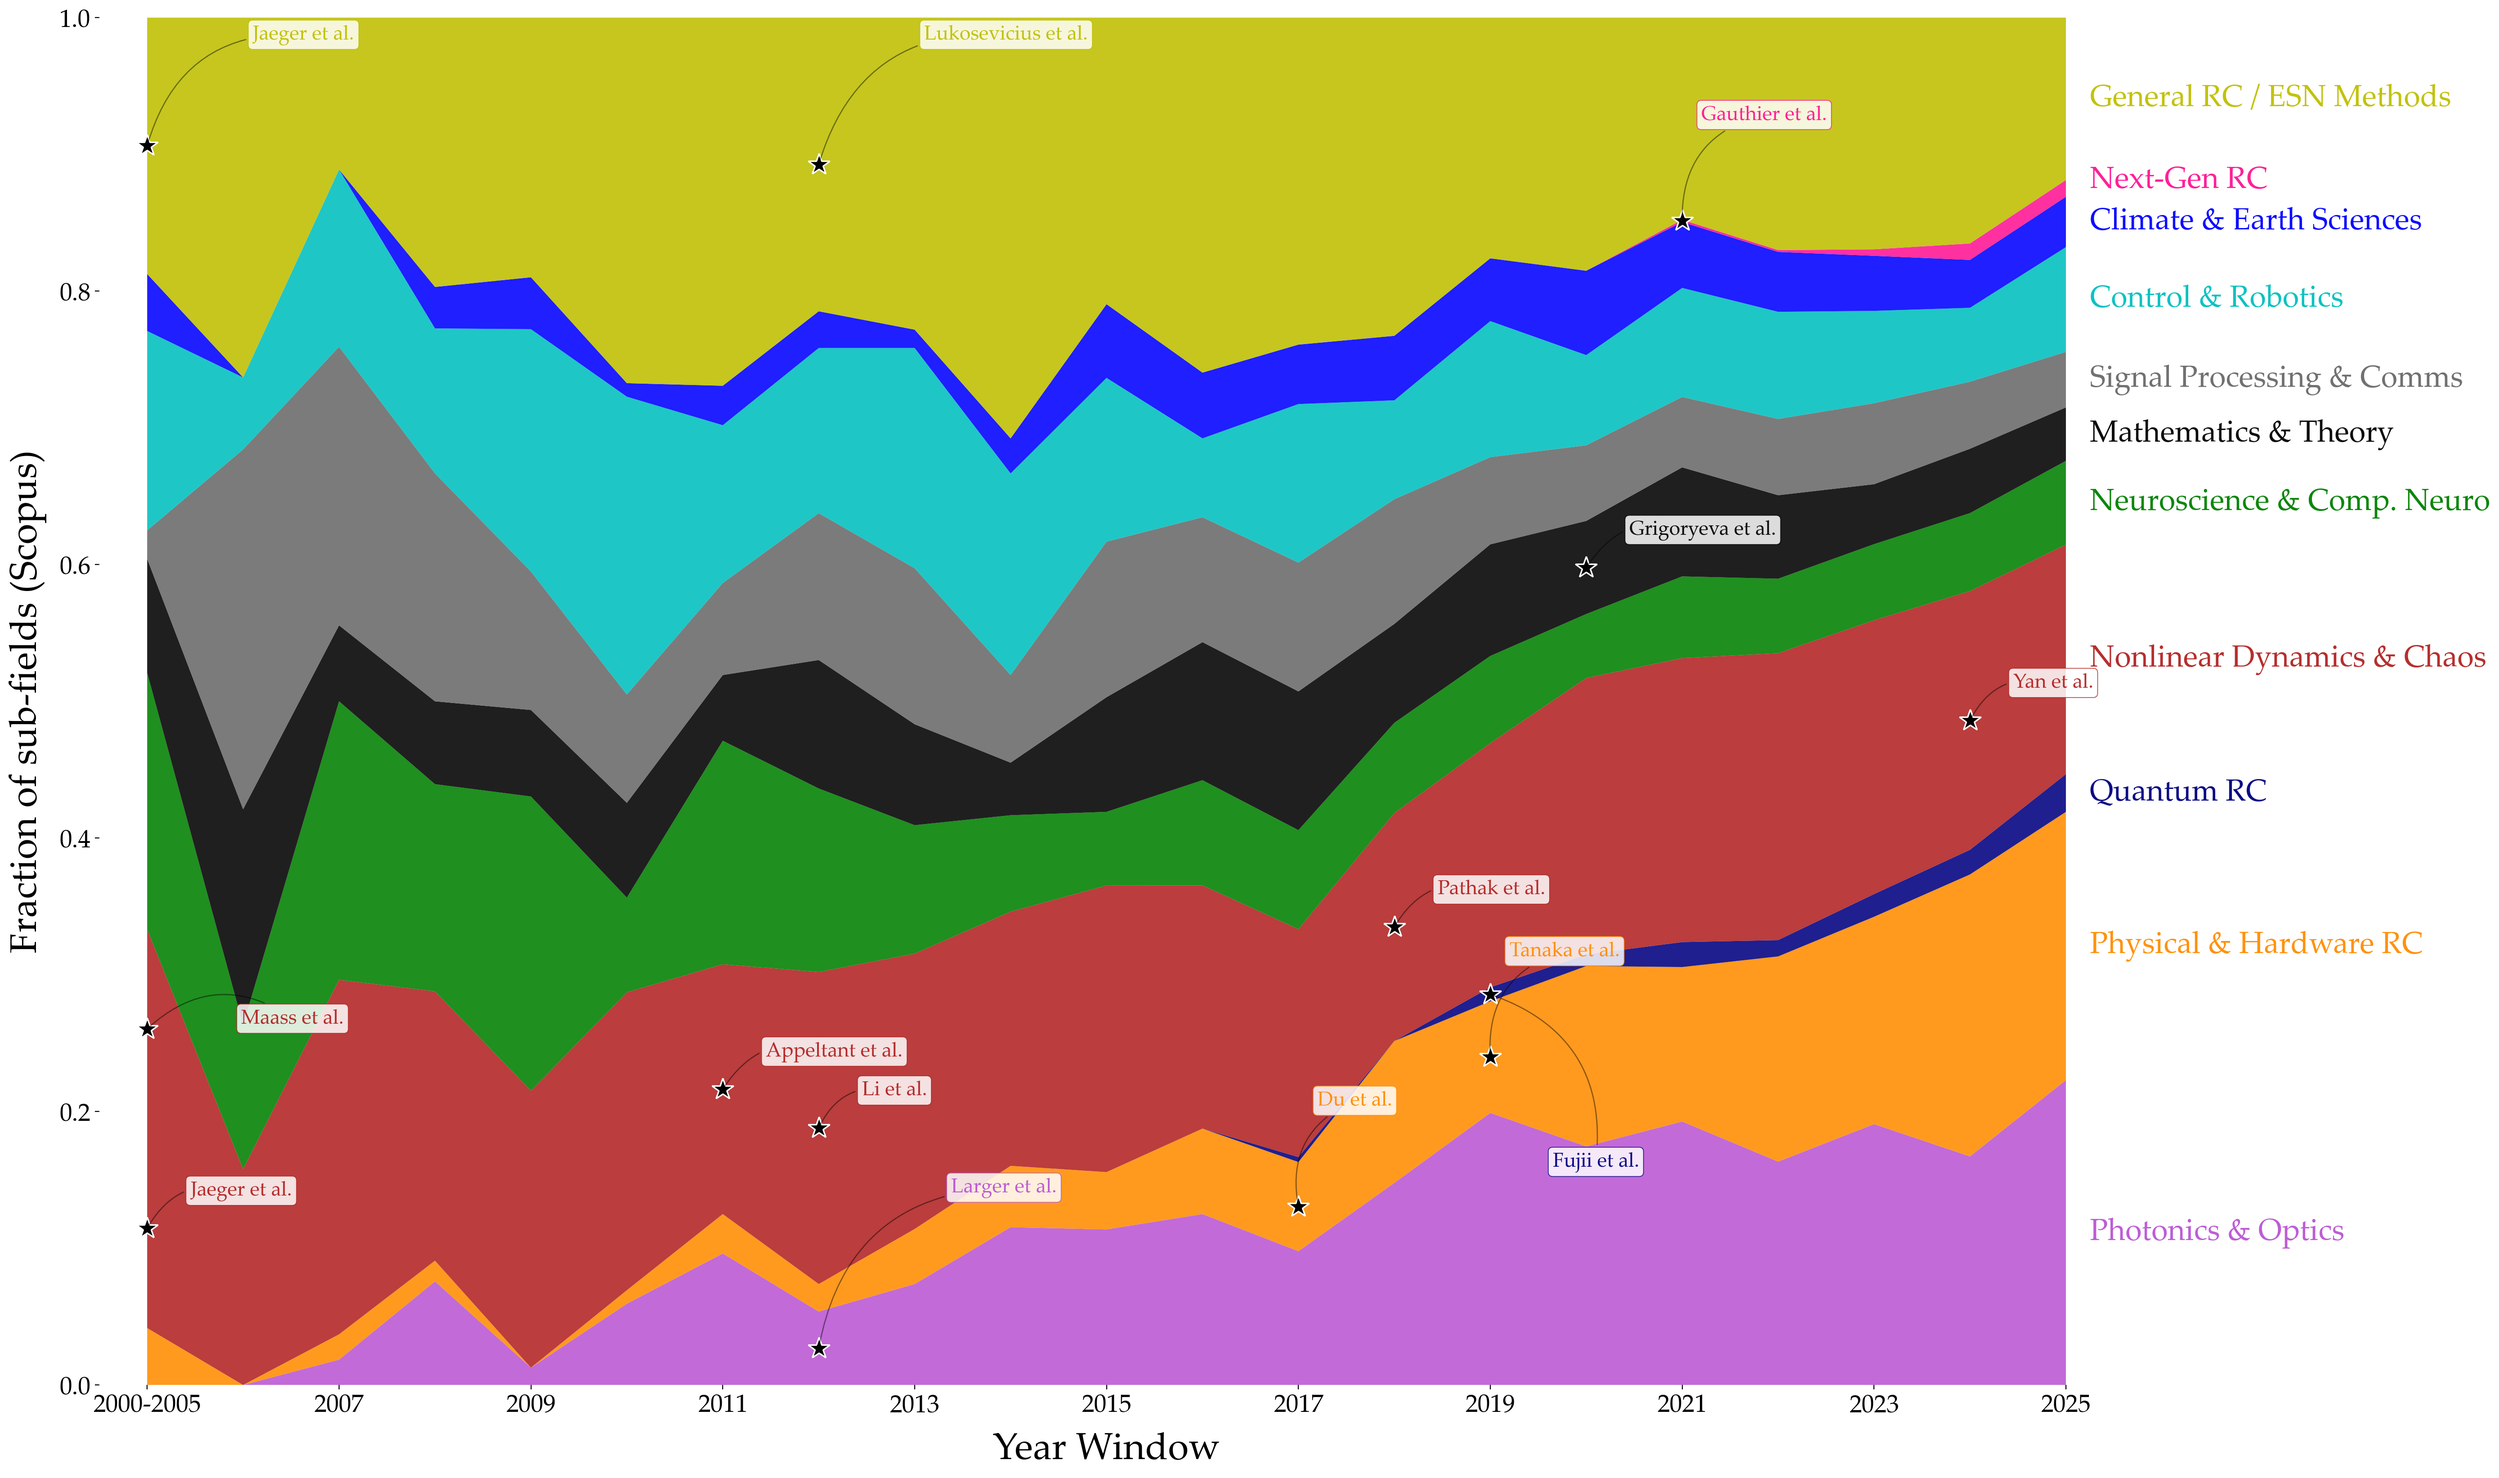
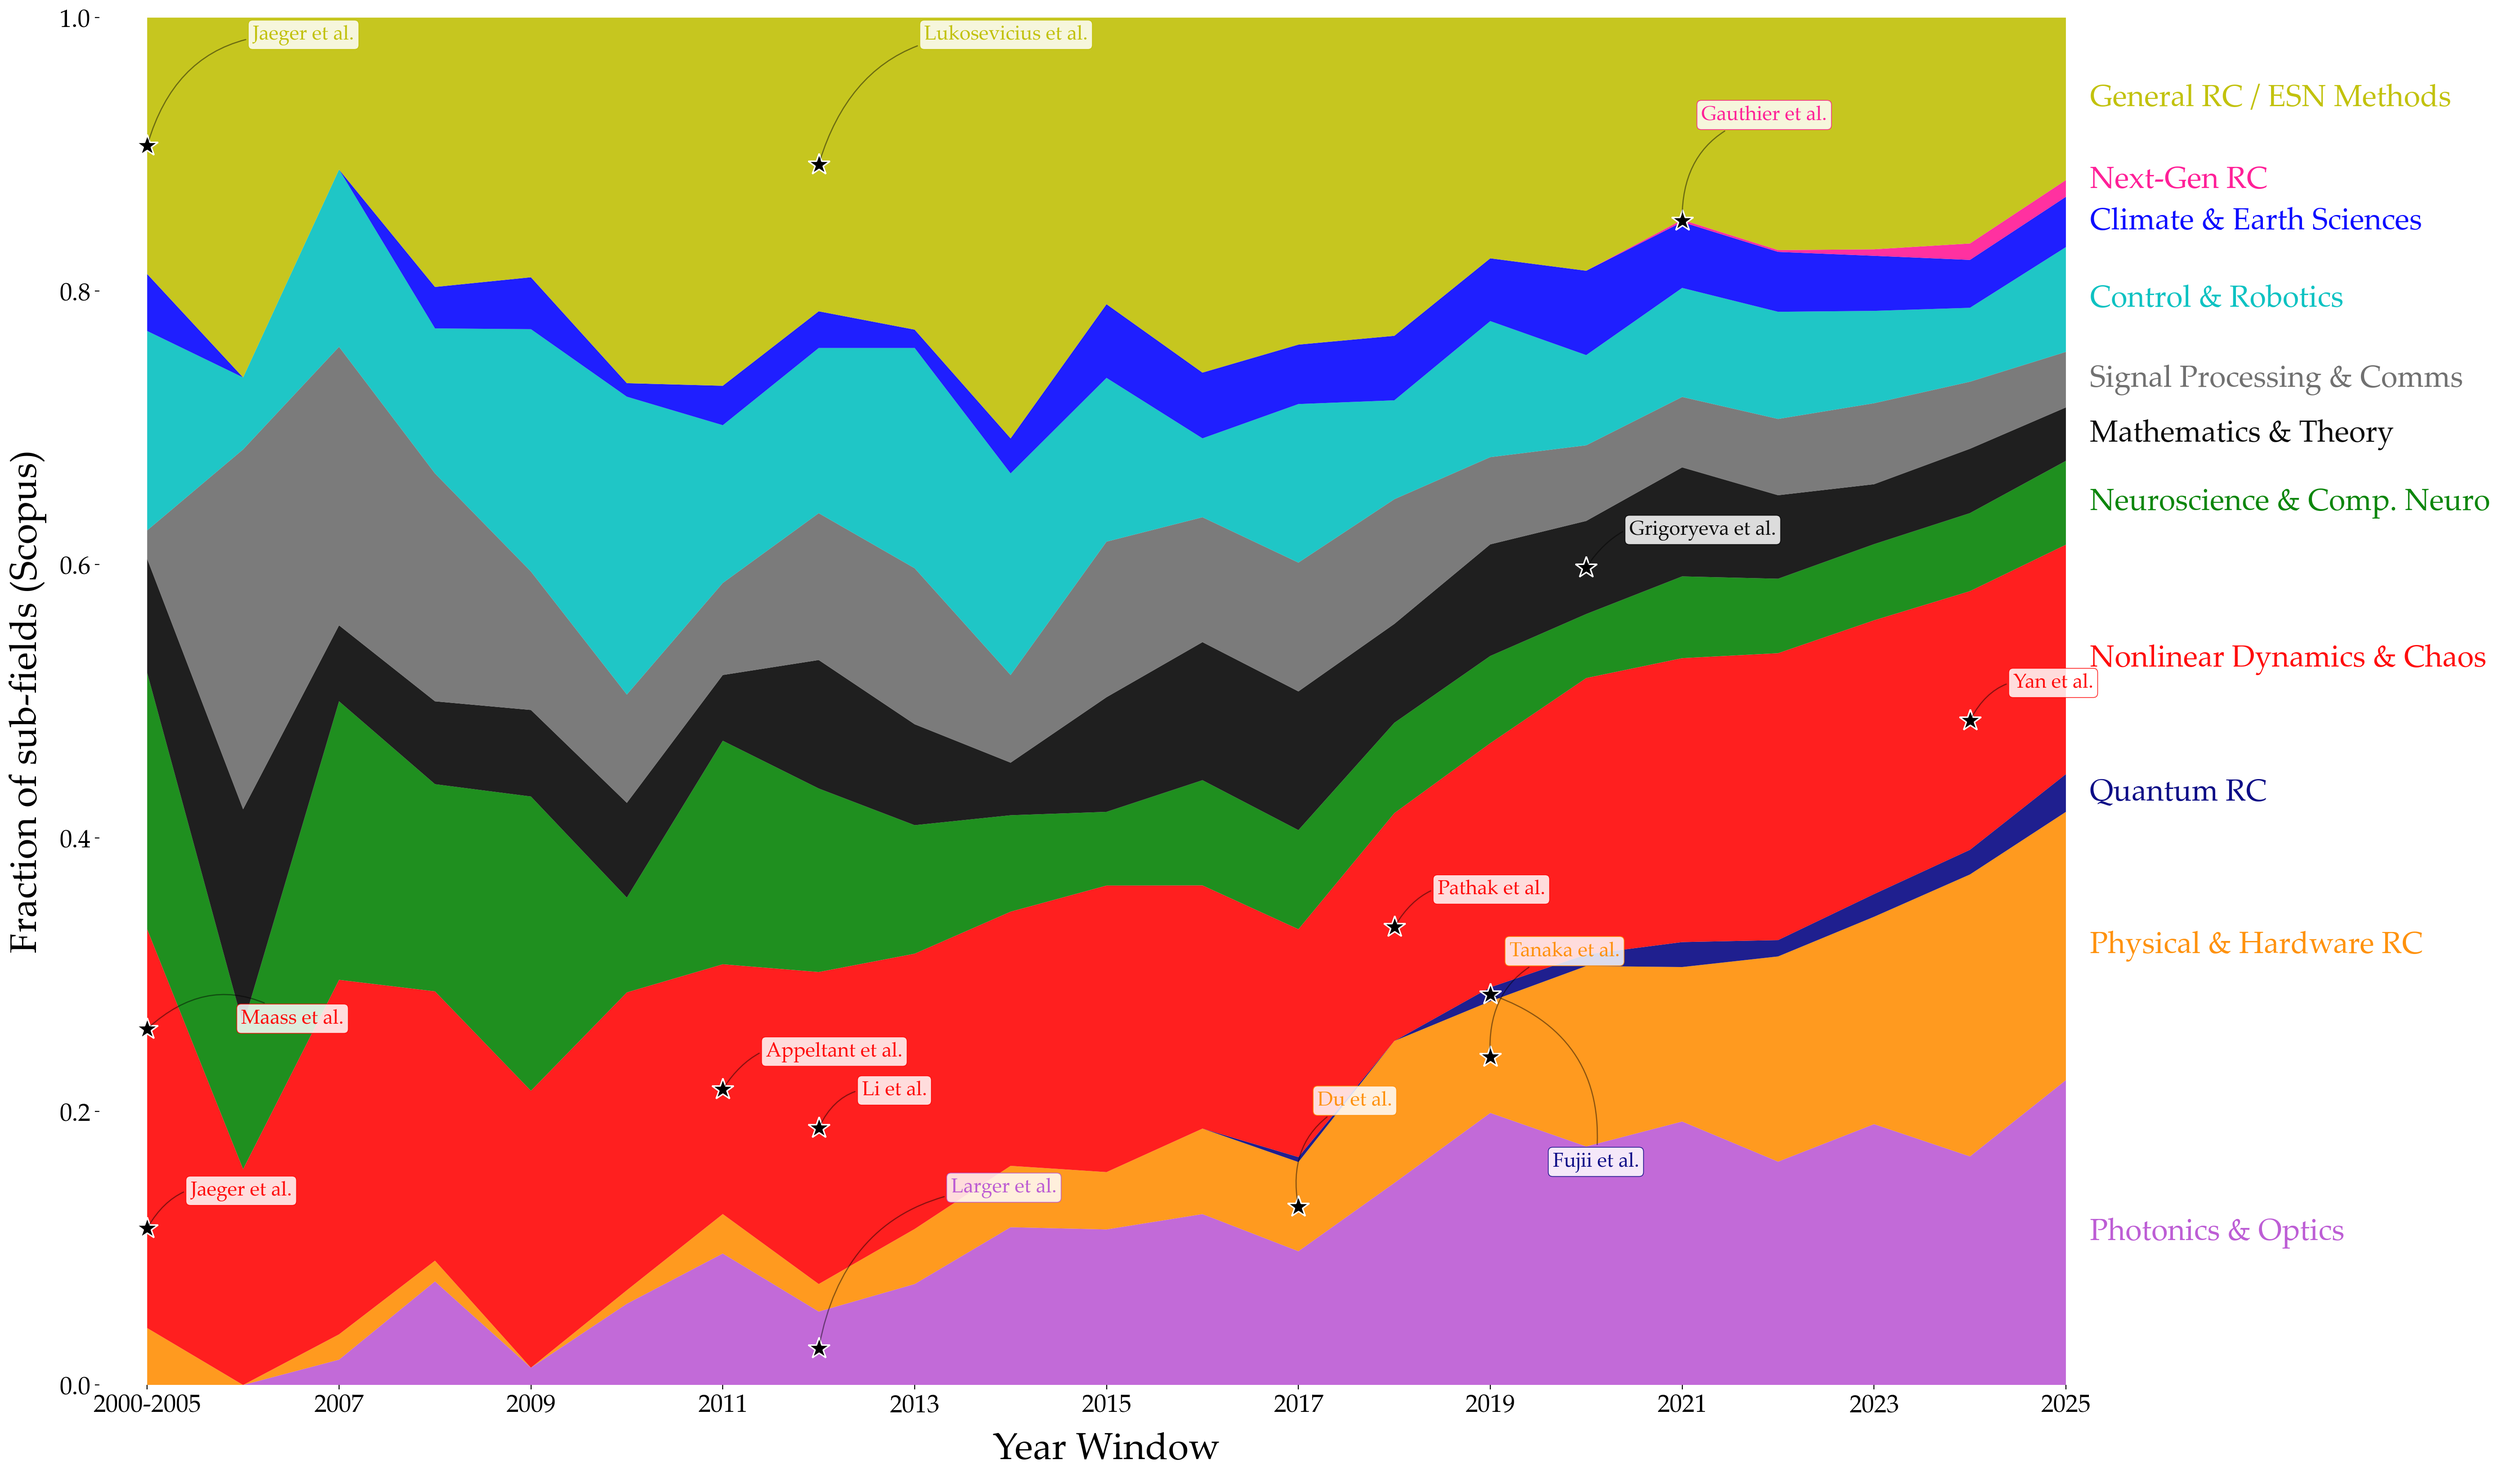
colors updated

Changed region(s): [[0.0311, 0.3725, 0.9962, 0.9312]]

diff --git a/scopus_data_analyze.py b/scopus_data_analyze.py
@@ -62,7 +62,7 @@ SUBFIELD_COLORS = {
     "Photonics & Optics":          "mediumorchid", #"red",
     "Physical & Hardware RC":      "darkorange", #"green",
     "Quantum RC":                  "navy", #"blue",
-    "Nonlinear Dynamics & Chaos":  "firebrick", #"orange",
+    "Nonlinear Dynamics & Chaos":  "red", ##"firebrick", #"orange",
     "Neuroscience & Comp. Neuro":  "green", #"royalblue",
     "Mathematics & Theory":        "black",
     "Signal Processing & Comms":   "dimgray", #"darkviolet",
